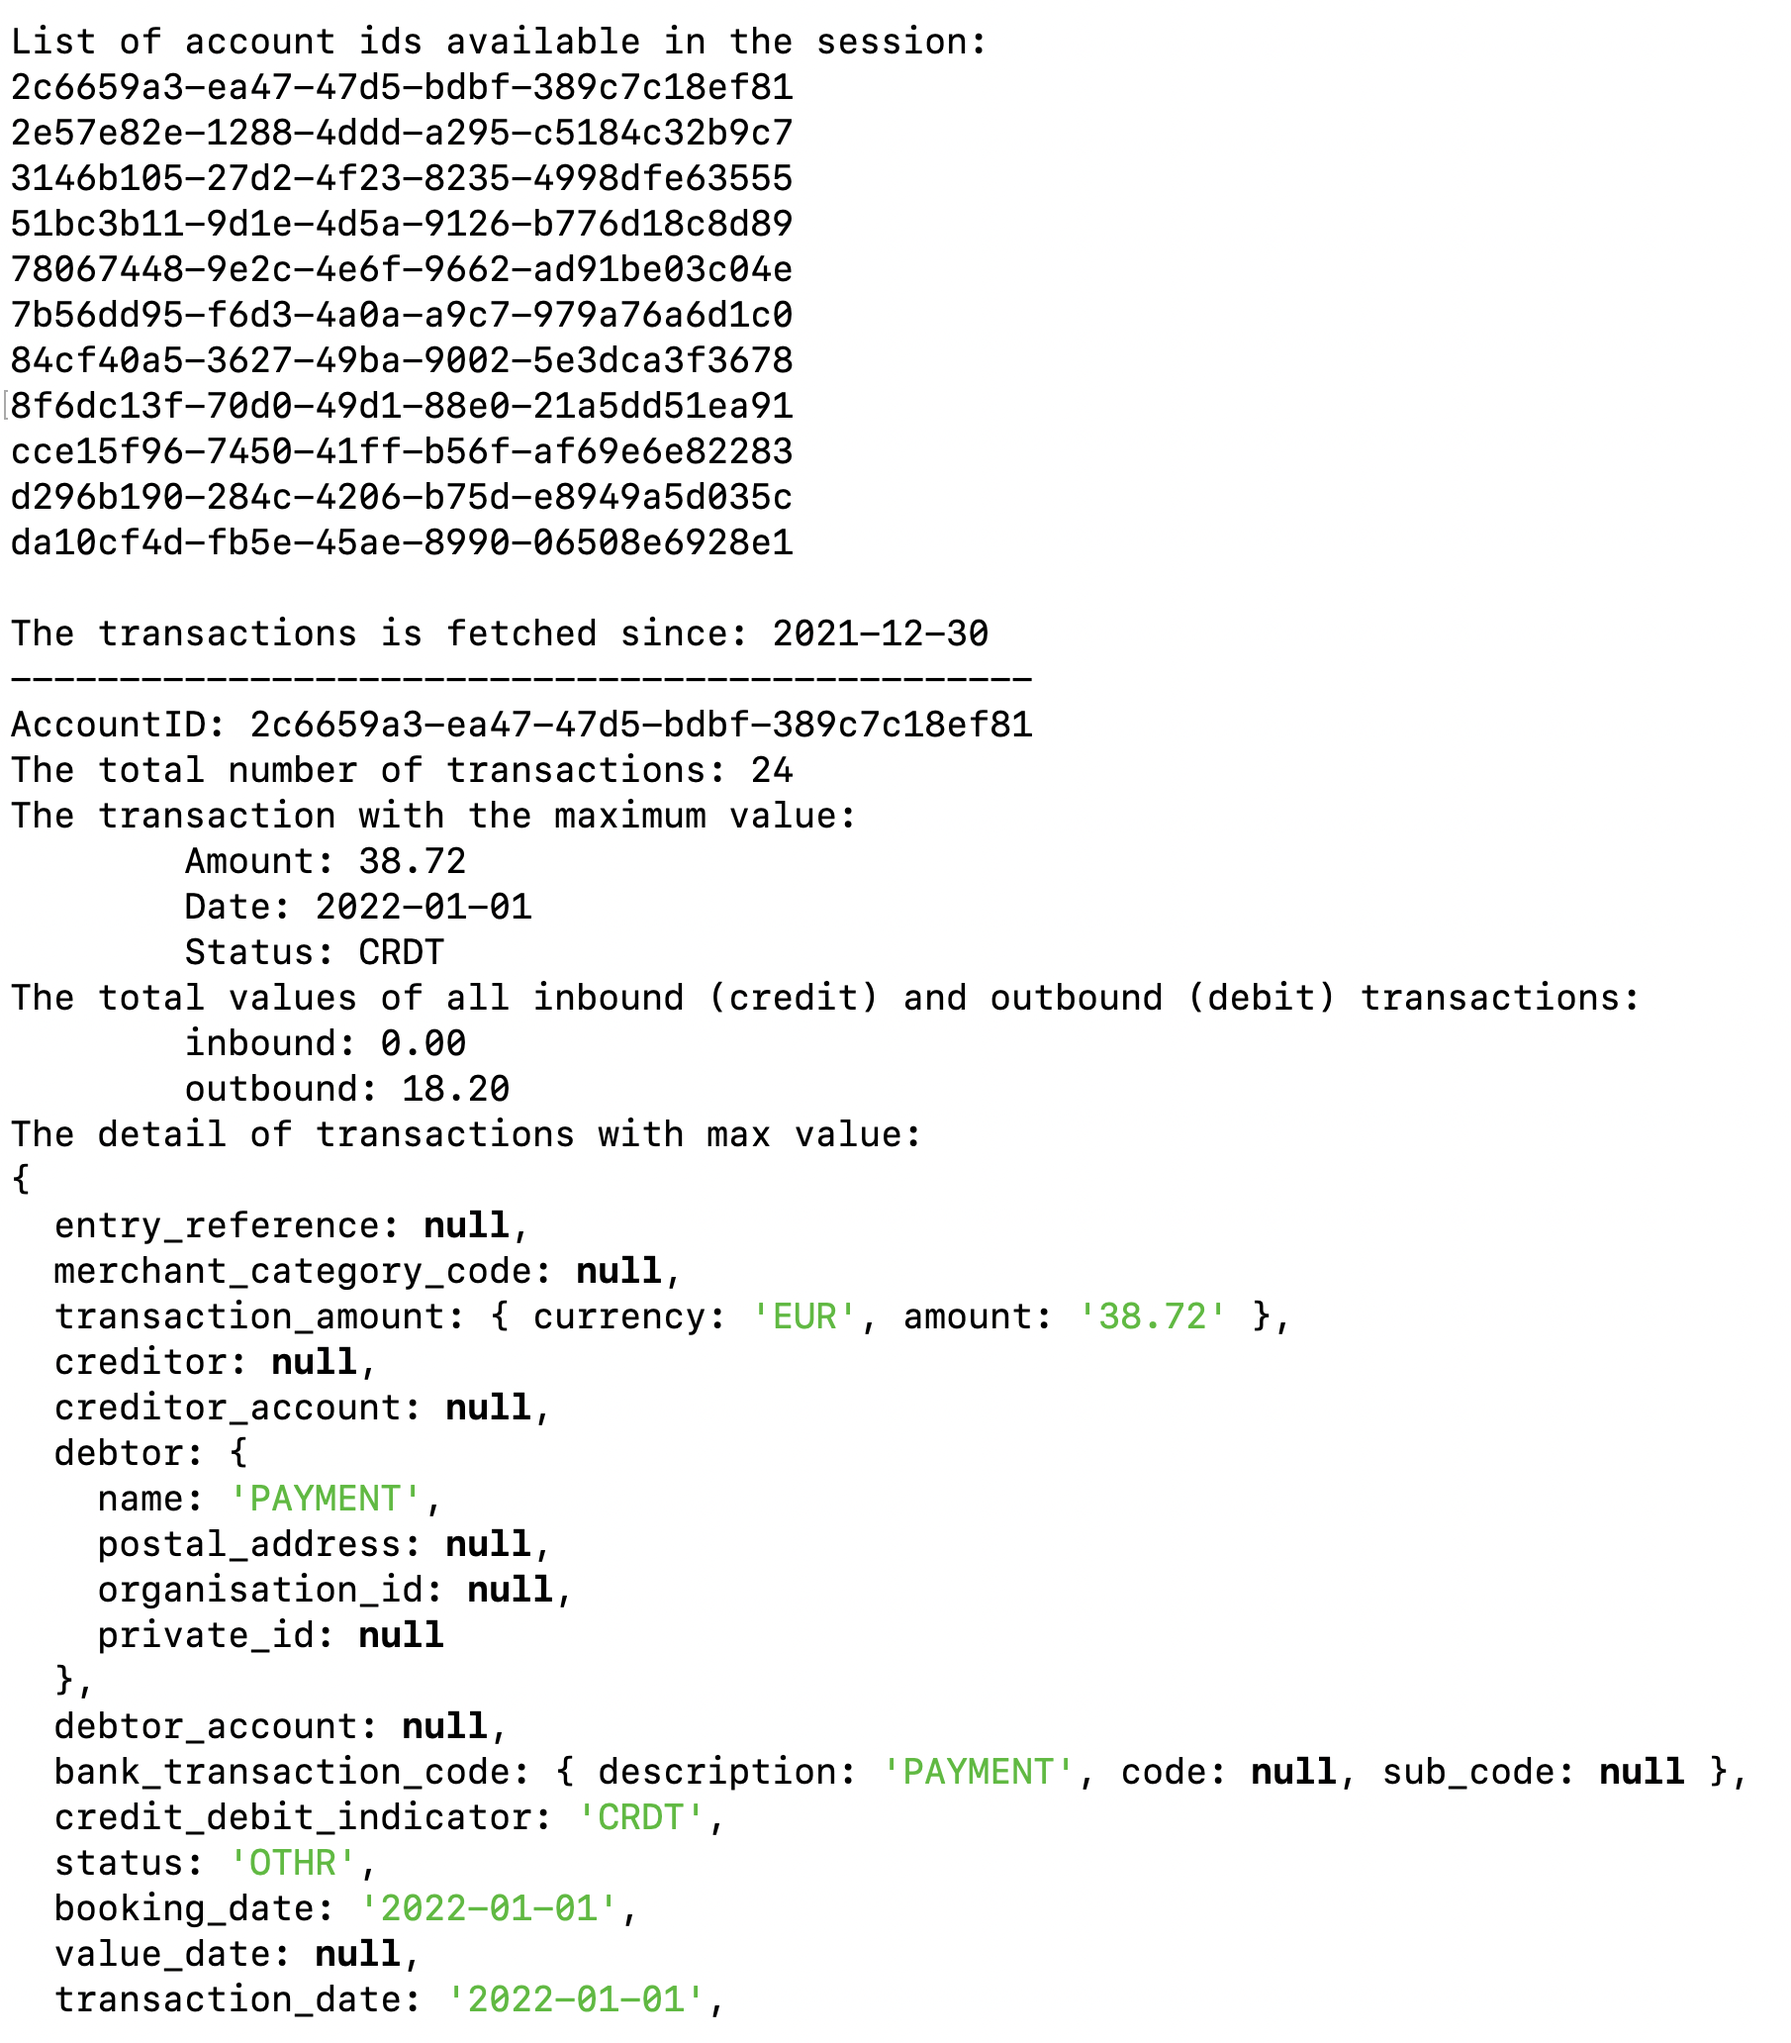
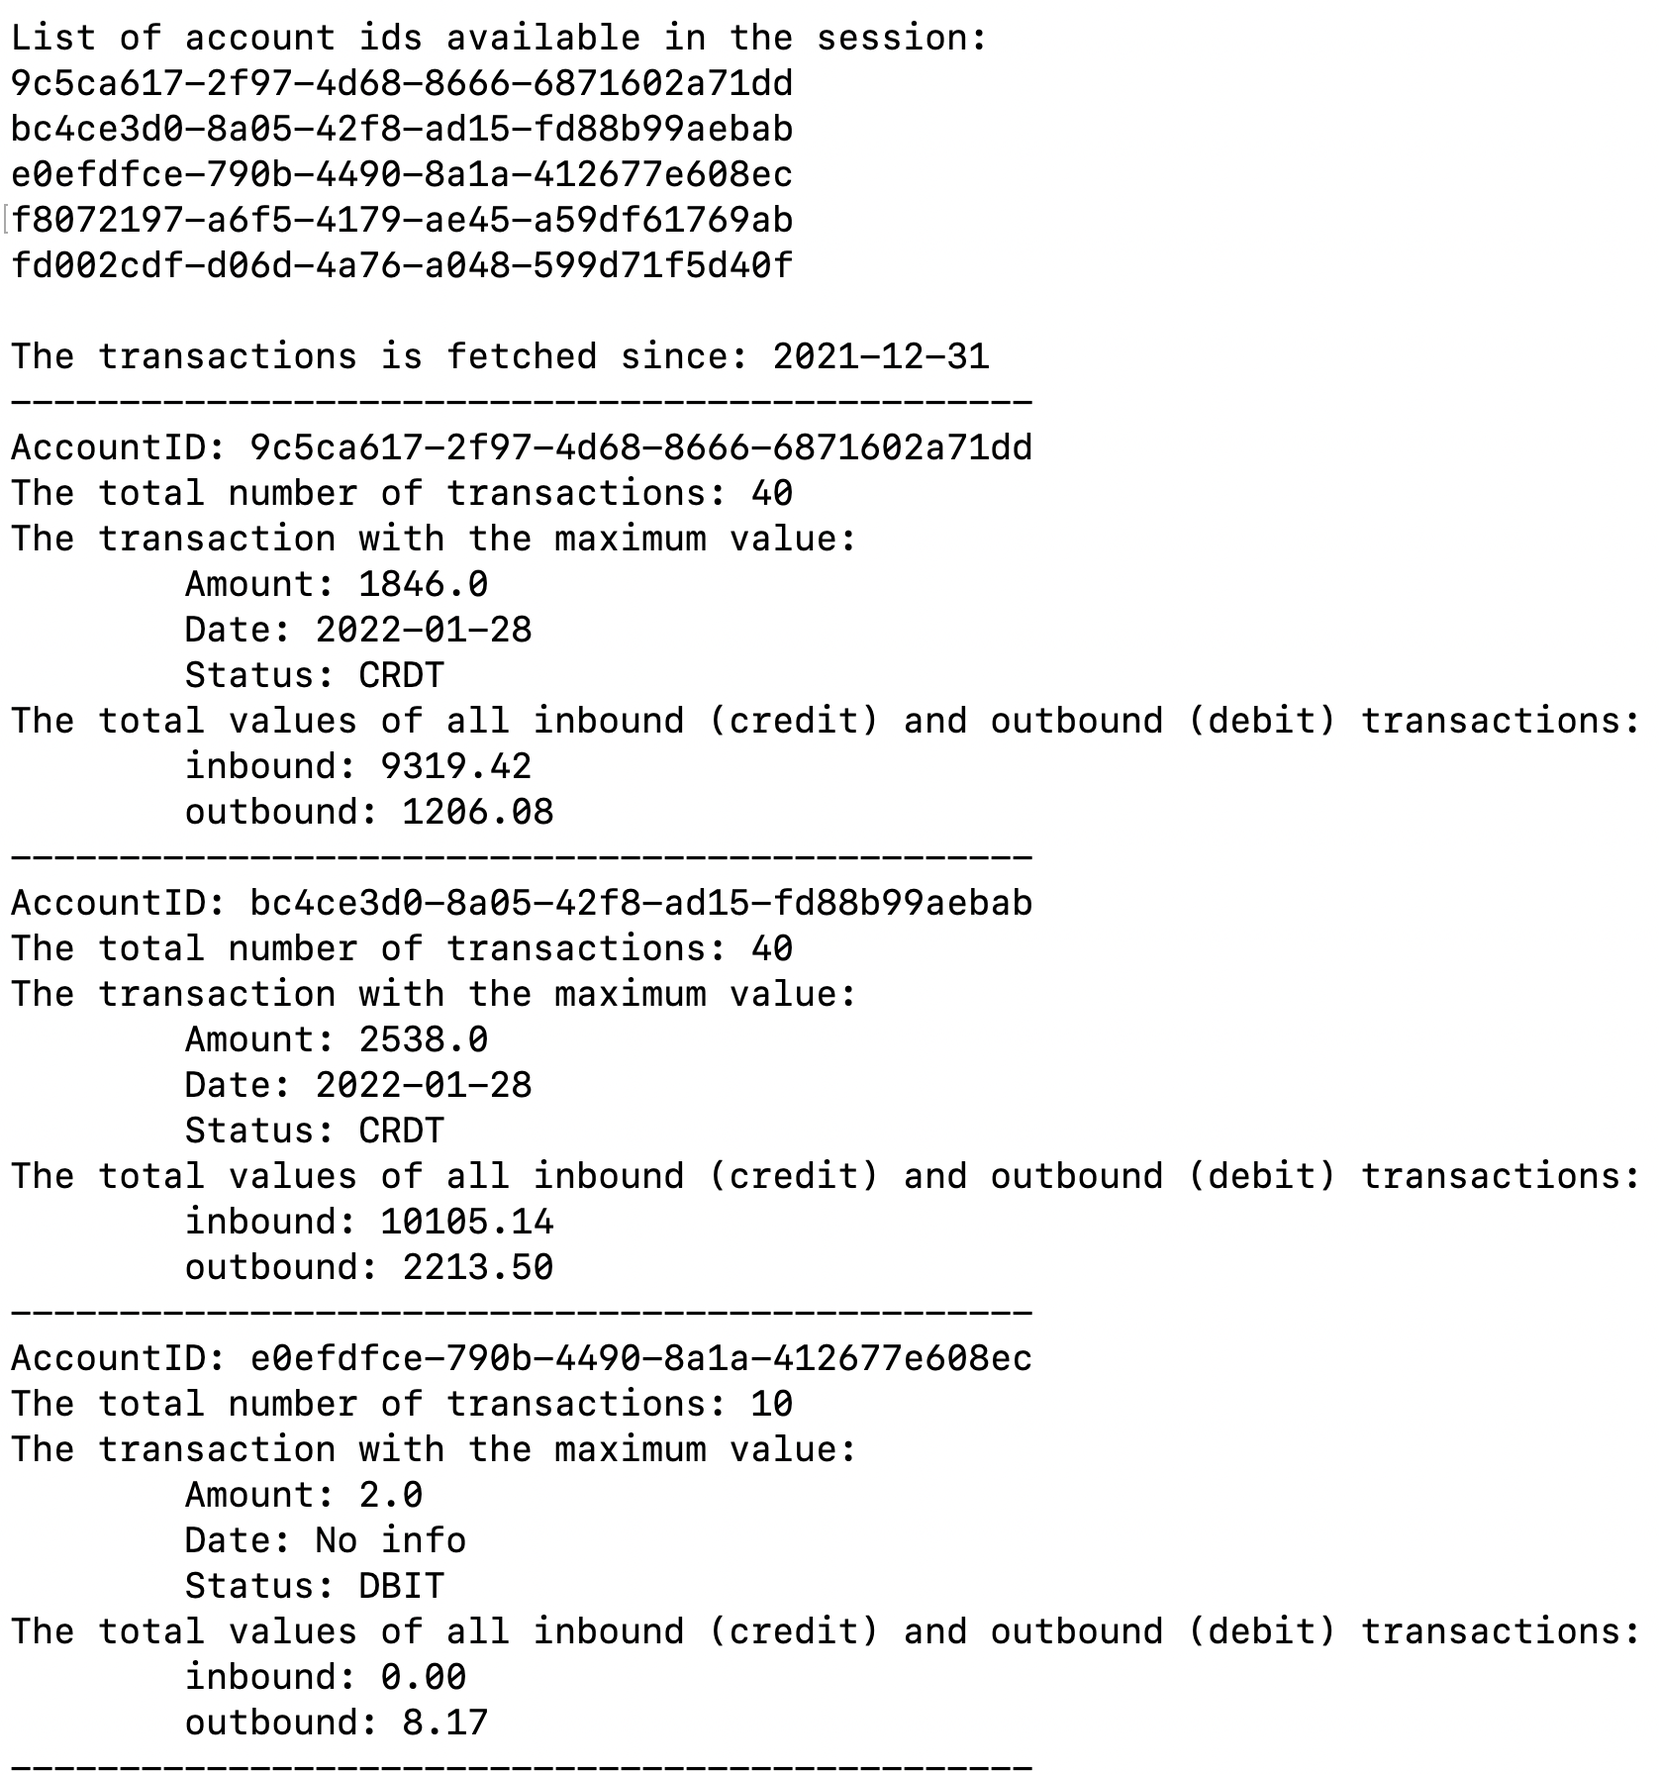
update documents

diff --git a/assignment/service.js b/assignment/service.js
@@ -159,15 +159,19 @@ const showAccountInfo = async (accountId, date) => {
     console.log(`The total number of transactions: ${numberOfTransac}`)
     console.log(`The transaction with the maximum value:`)
     console.log(`\tAmount: ${transacwithMaxValue.transaction_amount.amount}`)
-    console.log(`\tDate: ${transacwithMaxValue.booking_date}`)
+    if (transacwithMaxValue.booking_date) {
+      console.log(`\tDate: ${transacwithMaxValue.booking_date}`)
+    } else {
+      console.log(`\tDate: No info`)
+    }
     console.log(`\tStatus: ${transacwithMaxValue.credit_debit_indicator}`)
     console.log(`The total values of all inbound (credit) and outbound (debit) transactions:`)
     console.log(`\tinbound: ${totalValue.creditSum}`)
     console.log(`\toutbound: ${totalValue.debitSum}`)
       
     //console.log(transacData)
-    console.log(`The detail of transactions with max value:`)
-    console.log(transacwithMaxValue)
+    //console.log(`The detail of transactions with max value:`)
+    //console.log(transacwithMaxValue)
   }
 }
 

diff --git a/assignment/utils.js b/assignment/utils.js
@@ -7,15 +7,6 @@ const config = JSON.parse(fs.readFileSync(path.join(__dirname, "..", "config.jso
 const KEY_PATH = config.keyPath;
 const APPLICATION_ID = config.applicationId;
 
-
-const base64AddPadding = (str) => {
-  return str + "=".repeat((4 - str.length % 4) % 4);
-}
-
-const urlunsafeSignature = (signature) => {
-  return signature.replace(/\_/g, "/").replace(/\-/g, "+");
-}
-
 const getJWTHeader = () => {
   return encodeData({
     typ: "JWT",
@@ -63,19 +54,8 @@ const input = (query) => {
   }))
 }
 
-const getCode = (url) => {
-  const query = url.split("?")[1];
-  for (const pair of query.split("&")) {
-    const [key, val] = pair.split("=")
-    if (key === "code") {
-      return val;
-    }
-  }
-}
-
 module.exports = {
   getJWT: getJWT,
   config: config,
   input: input,
-  getCode: getCode
 }

diff --git a/README.md b/README.md
@@ -1,52 +1,70 @@
 # Intructions to Run the Application
 
-1. Make sure Node.js has been installed
+## 1. Setup
 
-2. Enter the folder `assignment`, run the command `npm install` under the folder to set the running environment. The folder should contain following files, please check if there is any missing file.
+Make sure Node.js has been installed
+
+## 2. Configuration 
+
+To use run the program, you need an application that has been registered on the Enable Banking Control Panel. 
+
+**If you would like to use the application I have registered**, please copy the key I have sent to the `assignment` folder. 
+
+**If you would like to use your own application**. First sign up for the Enable Banking Control Panel (simply go to https://enablebanking.com/sign-in/ and enter your email where you would get a one time authentication link) and register a new application (when signed in, go to https://enablebanking.com/cp/applications and fill in the app registration form). After registered the application, you should get a private key and see a page as follows:
+
+<img src="./pictures/9.png" style="zoom: 33%;" />
+
+Now, open the file `config.json`, replace the `keyPath`, `applicationId`, and `redirectUrl` field according to the information you have obtained. After that, put the private key you got to the `assignment` folder.
+
+## 3. Run the program
+
+1. Enter the folder `assignment`, run the command `npm install` under the folder to set the running environment. The folder should contain following files, please check if there is any missing file.
 
    - The key (a file with suffix `.pem`)
    - main.js (The main file of the application)
    - package.json (Configuration)
-   - service.js (Services to support the main.js)
-   - utils.js (Support main.js and service.js)
-   
-3. Run the application under the folder `assignment` with command `node main.js`
+   - service.js (Services to support the `main.js`)
+   - utils.js (Support `main.js` and `service.js`)
+
+2. Run the application under the folder `assignment` with command `node main.js`
 
 3. A list of banks will be shown as follows, choose one with its name or id.
 
    <img src="./pictures/1.png" style="zoom: 33%;" />
-   
-   Note, you should type the id and name listed on the terminal, anything else is unacceptable . For example to choose the Nordea bank in Denmark. You should type `5` or `Nordea|DK`. For example:
-   
+
+   Note, you should type the ids and names listed on the terminal, anything else is unacceptable . For example to choose the Nordea bank in Denmark. You should type `5` or `Nordea|DK`. For example (with id):
+
    <img src="./pictures/2.png" style="zoom:33%;" />
-   
-   Or
-   
+
+   Or (with name)
+
    <img src="./pictures/3.png" style="zoom:33%;" />
-   
-   If you see an error as follows, or the link for authorization is not presented:
-   
+
+   If you see an error as follows, or the link for authorization is not presented,
+
    <img src="./pictures/4.png" style="zoom:33%;" />
-   
-   It should be something wrong with the bank info you typed, please check that.
-   
-5. After choosing the bank, you will be given a link for authentication. Paste it to the web browser, complete the authentication and authorise access to the bank data.
+
+   it should be something wrong with the bank info you typed, please check that.
+
+4. After choosing the bank, you will be given a link for authentication. Paste it to the web browser, complete the authentication and authorise access to the bank data.
 
    <img src="./pictures/5.png" style="zoom: 67%;" />
 
    In this step, you should click the green button.
 
-6. After finish the authentication, copy the code in the redirect url back to the terminal. If the url is`https://enablebanking.com/auth_redirect?state=some_test_state&code=de8ae2bf-c261-4b51-a35b-ed995a64189f`, the code should be `de8ae2bf-c261-4b51-a35b-ed995a64189f`, like this:
+5. After finish the authentication, copy the code in the redirect url back to the terminal. If the url is`https://enablebanking.com/auth_redirect?state=some_test_state&code=de8ae2bf-c261-4b51-a35b-ed995a64189f`, the code should be `de8ae2bf-c261-4b51-a35b-ed995a64189f`, like this:
 
    <img src="./pictures/8.png" alt="截屏2022-01-29 下午8.10.57" style="zoom:50%;" />
 
-   If you see error as the following picture, may be the code you typed is wrong, please check that.
+   If you see error as follows, may be the code you typed is wrong, please check that.
 
    <img src="./pictures/7.png" style="zoom:33%;" />
 
-7. After coping the url back to the terminal, you should be able to see a short summary of the transactions for the last 30 days for each account associated with the user’s bank account. As follows:
+6. After coping the url back to the terminal, you should be able to see a short summary of the transactions for the last 30 days for each account associated with the user’s bank account. As follows:
 
-   <img src="./pictures/6.png" alt="截屏2022-01-29 下午3.04.11" style="zoom: 33%;" />
+   <img src="./pictures/6.png" style="zoom:33%;" />
+
+   
 
    
 
